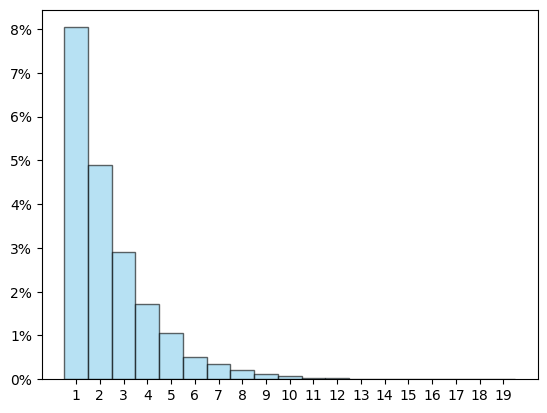
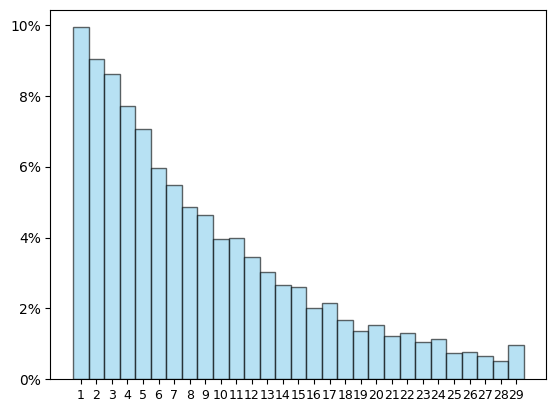
Normal distribution graph fix

Changed region(s): [[0.0, 0.0291, 0.9945, 0.9903]]

diff --git a/docs/2025/01/31/normal_distribution_1/index.html b/docs/2025/01/31/normal_distribution_1/index.html
@@ -153,7 +153,7 @@ if(!(window.doNotTrack === "1" || navigator.doNotTrack === "1" || navigator.doNo
 
 <p><img src="/assets/img/2025/histogram_5.png" alt="" /></p>
 
-<p>זה… קצת מזכיר את הגרף שראינו קודם, של ההתפלגות הבינומית. מה הולך כאן? המספרים שכתובים למטה נראים גבוהים מדי. הרי “1” הוא בהסתברות הכי גבוהה, ואני בסך הכל מאגד 100 היסטוגרמות ביחד. זה לא אמור לצאת קרוב אל 100? ובכן, לא. בלי להיכנס עדיין למונחים הטכניים הרלוונטיים, הערך ה”ממוצע” שאפשר לצפות לו בהתפלגות הגאומטרית של משחק הסלים שלי הוא 10. כי אמנם השטח של הפסים הראשונים נראה גדול ומרשים אבל הוא לא מה שאנחנו מודדים - ה”ממוצע” הוא סכום המכפלות של הגבהים של הפסים בערך המספרי שהם מייצגים. הגובה של הפס של 1 הוא בערך <span>\( \frac{8}{100} \)</span>? אנחנו כופלים אותו בערך המספרי 1. הגובה של פס 2 הוא בערך <span>\( \frac{5}{100} \)</span>? אנחנו כופלים אותו ב-2 ומקבלים <span>\( \frac{1}{10} \)</span>. כך אנחנו עושים לכל ערך אפשרי - כופלים אותו בהסתברות שהוא יתקבל, סוכמים, ומגלים שדווקא ה”זנב” שבכלל לא רואים בהיסטוגרמה תורם חלקים נכבדים לממוצע. אז אם הממוצע הוא 10 למשחק, ויש 100 משחקים, לא מפתיע שהסכום הכולל הוא בסביבות 1000; ככל שמשחקים יותר משחקים כך התוצאות מסתדרות יפה סביב הממוצע.</p>
+<p>זה… קצת מזכיר את הגרף שראינו קודם, של ההתפלגות הבינומית. מה הולך כאן? המספרים שכתובים למטה נראים גבוהים מדי. הרי “1” הוא בהסתברות הכי גבוהה, ואני בסך הכל מאגד 100 היסטוגרמות ביחד. זה לא אמור לצאת קרוב אל 100? ובכן, לא. בלי להיכנס עדיין למונחים הטכניים הרלוונטיים, הערך ה”ממוצע” שאפשר לצפות לו בהתפלגות הגאומטרית של משחק הסלים שלי הוא 10. כי אמנם השטח של הפסים הראשונים נראה גדול ומרשים אבל הוא לא מה שאנחנו מודדים - ה”ממוצע” הוא סכום המכפלות של הגבהים של הפסים בערך המספרי שהם מייצגים. הגובה של הפס של 1 הוא בערך <span>\( \frac{10}{100} \)</span>? אנחנו כופלים אותו בערך המספרי 1. הגובה של פס 2 הוא בערך <span>\( \frac{9}{100} \)</span>? אנחנו כופלים אותו ב-2 ומקבלים <span>\( \frac{18}{100} \)</span>. כך אנחנו עושים לכל ערך אפשרי - כופלים אותו בהסתברות שהוא יתקבל, סוכמים, ומגלים שדווקא ה”זנב” שבכלל לא רואים בהיסטוגרמה תורם חלקים נכבדים לממוצע. אז אם הממוצע הוא 10 למשחק, ויש 100 משחקים, לא מפתיע שהסכום הכולל הוא בסביבות 1000; ככל שמשחקים יותר משחקים כך התוצאות מסתדרות יפה סביב הממוצע.</p>
 
 <p>בואו נראה עוד דוגמא. נניח שאני מטיל קוביה עם עשר פאות, כלומר מקבל תוצאה בין 1 ל-10, אבל הקוביה הזו היא לא הוגנת אלא מוטה בשלל דרכים שונות ומשונות שהופכות תוצאות מסוימות ליותר נפוצות ותוצאות אחרות לנדירות. הנה היסטוגרמה של 10,000 הטלות של הקוביה הזו:</p>
 

diff --git a/docs/categories/quantum_computing/index.html b/docs/categories/quantum_computing/index.html
@@ -14,13 +14,13 @@
 <meta property="og:site_name" content="לא מדויק" />
 <meta property="og:image" content="http://gadial.net/assets/img/main/default-card.png" />
 <meta property="og:type" content="article" />
-<meta property="article:published_time" content="2025-01-31T04:53:19+00:00" />
+<meta property="article:published_time" content="2025-01-31T07:24:03+00:00" />
 <meta name="twitter:card" content="summary" />
 <meta property="twitter:image" content="http://gadial.net/assets/img/main/default-card.png" />
 <meta property="twitter:title" content="Quantum_computing" />
 <meta name="twitter:site" content="@" />
 <script type="application/ld+json">
-{"url":"http://gadial.net/categories/quantum_computing/","@type":"BlogPosting","description":"לא מדויק - בלוג על מתמטיקה ומדעי המחשב","headline":"Quantum_computing","dateModified":"2025-01-31T04:53:19+00:00","datePublished":"2025-01-31T04:53:19+00:00","image":"http://gadial.net/assets/img/main/default-card.png","mainEntityOfPage":{"@type":"WebPage","@id":"http://gadial.net/categories/quantum_computing/"},"@context":"https://schema.org"}</script>
+{"url":"http://gadial.net/categories/quantum_computing/","@type":"BlogPosting","description":"לא מדויק - בלוג על מתמטיקה ומדעי המחשב","headline":"Quantum_computing","dateModified":"2025-01-31T07:24:03+00:00","datePublished":"2025-01-31T07:24:03+00:00","image":"http://gadial.net/assets/img/main/default-card.png","mainEntityOfPage":{"@type":"WebPage","@id":"http://gadial.net/categories/quantum_computing/"},"@context":"https://schema.org"}</script>
 <!-- End Jekyll SEO tag -->
 <link href="/assets/css/bootstrap.min.css" rel="stylesheet" integrity="sha384-ggOyR0iXCbMQv3Xipma34MD+dH/1fQ784/j6cY/iJTQUOhcWr7x9JvoRxT2MZw1T" crossorigin="anonymous">
   <link rel="stylesheet" href="/assets/css/main.css">

diff --git a/_posts/2025-01-31-normal_distribution_1.md b/_posts/2025-01-31-normal_distribution_1.md
@@ -38,7 +38,7 @@ description: "על עקומה מסתורית שמתעקשת לצוץ שוב וש
 
 <img src="{{site.baseurl}}{{site.post_images}}/2025/histogram_5.png" alt=""/>
 
-זה... קצת מזכיר את הגרף שראינו קודם, של ההתפלגות הבינומית. מה הולך כאן? המספרים שכתובים למטה נראים גבוהים מדי. הרי "1" הוא בהסתברות הכי גבוהה, ואני בסך הכל מאגד 100 היסטוגרמות ביחד. זה לא אמור לצאת קרוב אל 100? ובכן, לא. בלי להיכנס עדיין למונחים הטכניים הרלוונטיים, הערך ה"ממוצע" שאפשר לצפות לו בהתפלגות הגאומטרית של משחק הסלים שלי הוא 10. כי אמנם השטח של הפסים הראשונים נראה גדול ומרשים אבל הוא לא מה שאנחנו מודדים - ה"ממוצע" הוא סכום המכפלות של הגבהים של הפסים בערך המספרי שהם מייצגים. הגובה של הפס של 1 הוא בערך {% equation %}\frac{8}{100}{% endequation %}? אנחנו כופלים אותו בערך המספרי 1. הגובה של פס 2 הוא בערך {% equation %}\frac{5}{100}{% endequation %}? אנחנו כופלים אותו ב-2 ומקבלים {% equation %}\frac{1}{10}{% endequation %}. כך אנחנו עושים לכל ערך אפשרי - כופלים אותו בהסתברות שהוא יתקבל, סוכמים, ומגלים שדווקא ה"זנב" שבכלל לא רואים בהיסטוגרמה תורם חלקים נכבדים לממוצע. אז אם הממוצע הוא 10 למשחק, ויש 100 משחקים, לא מפתיע שהסכום הכולל הוא בסביבות 1000; ככל שמשחקים יותר משחקים כך התוצאות מסתדרות יפה סביב הממוצע.
+זה... קצת מזכיר את הגרף שראינו קודם, של ההתפלגות הבינומית. מה הולך כאן? המספרים שכתובים למטה נראים גבוהים מדי. הרי "1" הוא בהסתברות הכי גבוהה, ואני בסך הכל מאגד 100 היסטוגרמות ביחד. זה לא אמור לצאת קרוב אל 100? ובכן, לא. בלי להיכנס עדיין למונחים הטכניים הרלוונטיים, הערך ה"ממוצע" שאפשר לצפות לו בהתפלגות הגאומטרית של משחק הסלים שלי הוא 10. כי אמנם השטח של הפסים הראשונים נראה גדול ומרשים אבל הוא לא מה שאנחנו מודדים - ה"ממוצע" הוא סכום המכפלות של הגבהים של הפסים בערך המספרי שהם מייצגים. הגובה של הפס של 1 הוא בערך {% equation %}\frac{10}{100}{% endequation %}? אנחנו כופלים אותו בערך המספרי 1. הגובה של פס 2 הוא בערך {% equation %}\frac{9}{100}{% endequation %}? אנחנו כופלים אותו ב-2 ומקבלים {% equation %}\frac{18}{100}{% endequation %}. כך אנחנו עושים לכל ערך אפשרי - כופלים אותו בהסתברות שהוא יתקבל, סוכמים, ומגלים שדווקא ה"זנב" שבכלל לא רואים בהיסטוגרמה תורם חלקים נכבדים לממוצע. אז אם הממוצע הוא 10 למשחק, ויש 100 משחקים, לא מפתיע שהסכום הכולל הוא בסביבות 1000; ככל שמשחקים יותר משחקים כך התוצאות מסתדרות יפה סביב הממוצע.
 
 בואו נראה עוד דוגמא. נניח שאני מטיל קוביה עם עשר פאות, כלומר מקבל תוצאה בין 1 ל-10, אבל הקוביה הזו היא לא הוגנת אלא מוטה בשלל דרכים שונות ומשונות שהופכות תוצאות מסוימות ליותר נפוצות ותוצאות אחרות לנדירות. הנה היסטוגרמה של 10,000 הטלות של הקוביה הזו:
 
